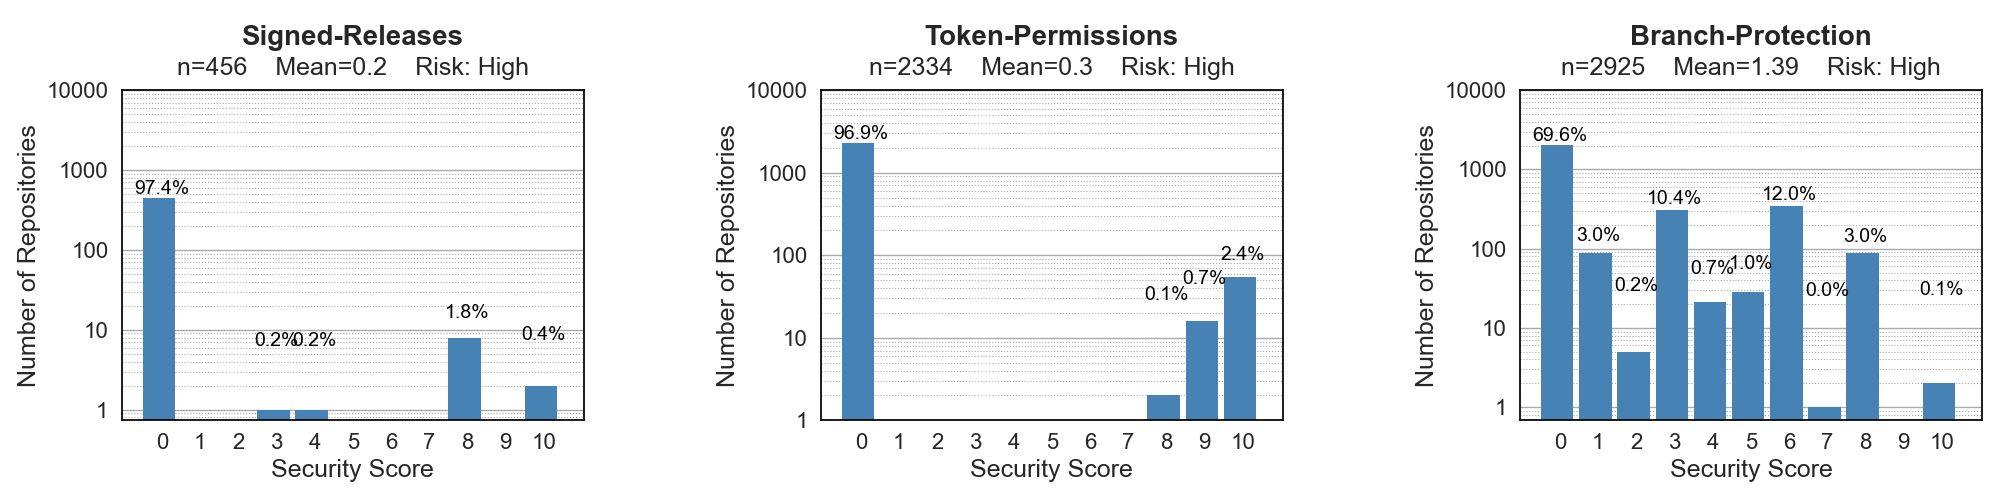
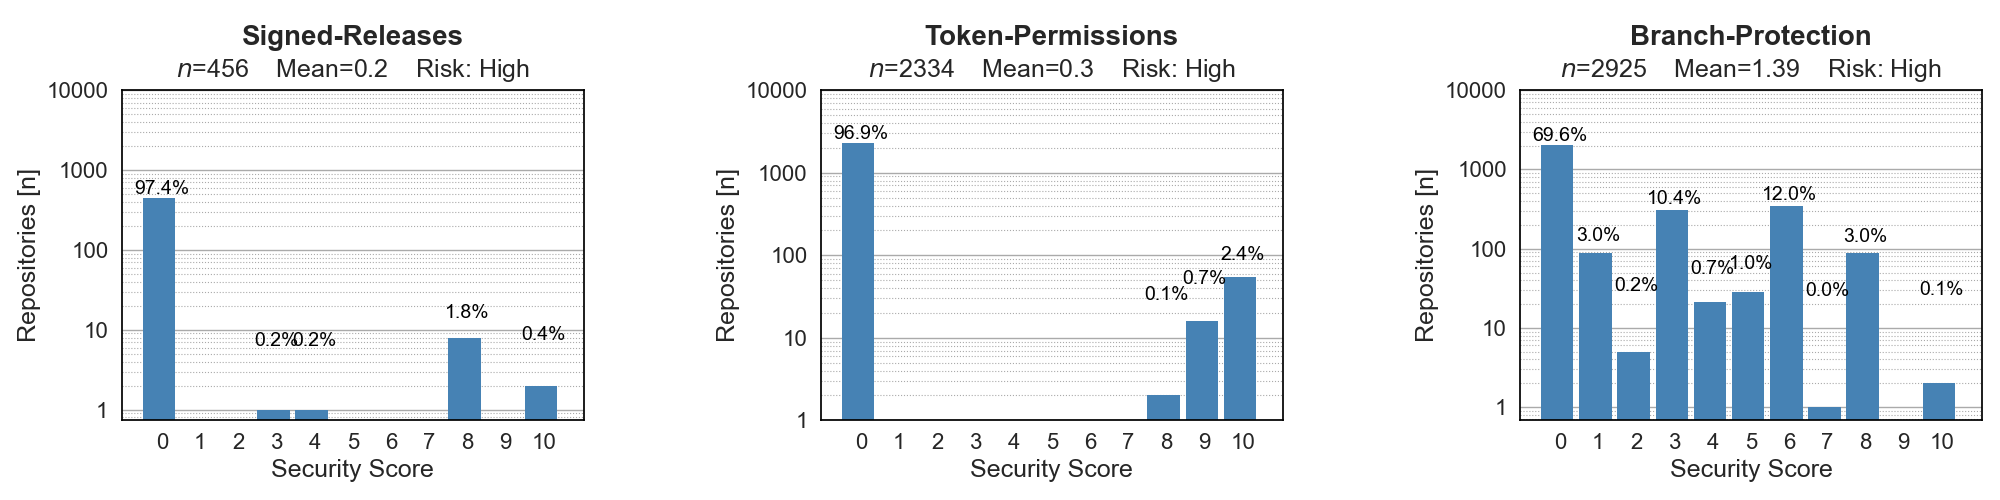
fix: adjust alpha value, improve axis labels

diff --git a/src/plot_ossf_scores.py b/src/plot_ossf_scores.py
@@ -139,7 +139,7 @@ def save_general_scores_plot(general_scores, output_dir):
     # Barplots
     boxplots_colors = ['slategray']
     unique_vals, counts = np.unique(general_scores, return_counts=True)
-    ax.bar(unique_vals, counts, width=0.08, color='steelblue', alpha=0.4, label='Histogramm')
+    ax.bar(unique_vals, counts, width=0.08, color='steelblue', alpha=0.6, label='Histogramm')
 
     # KDE-curve
     xs = np.linspace(min(general_scores), max(general_scores), 200)
@@ -163,11 +163,12 @@ def save_general_scores_plot(general_scores, output_dir):
     plt.xlabel('Security Score', fontsize=14)
     yticks= [0,50, 100, 150, 200]
     plt.yticks(ticks= yticks, labels=[str(i) for i in yticks], fontsize=12)
-    plt.ylabel('Count of Repositories', fontsize=14)
+    plt.ylabel('Repositories [n]', fontsize=14)
     plt.tight_layout()
 
     path = os.path.join(output_dir, 'general_scores_distribution.png')
     plt.tight_layout()
+    plt.show()
     plt.savefig(path)
     plt.close()
 
@@ -193,7 +194,6 @@ def _plot_histogram_for_check(ax, row, check_scores):
     check_name = row['Security Check']
     scores = check_scores[check_name]
     counts, bins, patches = ax.hist(scores, bins=range(12), color='steelblue', edgecolor='none', width=0.85)
-
     bin_centers = 0.5 * (bins[:-1] + bins[1:])
     total = counts.sum()
 
@@ -208,13 +208,13 @@ def _plot_histogram_for_check(ax, row, check_scores):
     ax.set_xticks(bin_centers)
     ax.set_xticklabels([str(i) for i in range(11)], fontsize=16)
     ax.set_xlabel('Security Score', fontsize=18)
-    ax.set_ylabel('Number of Repositories', fontsize=18)
+    ax.set_ylabel('Repositories [n]', fontsize=18)
     ax.set_yscale('log', nonpositive='clip')
     ax.set_yticks([1,10, 100, 1000, 10000])
     ax.set_yticklabels([1, 10, 100, 1000, 10000], fontsize= 16)
     ax.text(0.5, 1.12, f"{check_name}", transform=ax.transAxes,
             fontsize=20, ha='center', va='bottom', fontweight='bold')
-    ax.text(0.5, 1.10, f"n={len(scores)}    Mean={row['Mean']}    Risk: {row['Risk Level']}",
+    ax.text(0.5, 1.10, f"$n$={len(scores)}    Mean={row['Mean']}    Risk: {row['Risk Level']}",
             transform=ax.transAxes, fontsize=18, ha='center', va='top')
 
     for spine in ax.spines.values():
@@ -240,13 +240,13 @@ def _plot_binaer_histogram_for_check(ax, row, check_scores):
         "Count": [count_0, count_1]
     })
 
-    sns.barplot(x="Status", y="Count", data=df, ax=ax, color='steelblue',width=0.2)
+    sns.barplot(x="Status", y="Count", data=df, ax=ax, color='steelblue', edgecolor='none', width=0.2)
     ax.set_xticklabels(BINARY_LABELS[check_name], fontsize=16)
     ax.set_xlabel('Security Status', fontsize=18)
-    ax.set_ylabel('Number of Repositories', fontsize=18)
+    ax.set_ylabel('Repositories [n]', fontsize=18)
     ax.text(0.5, 1.13, f"{check_name}", transform=ax.transAxes,
             fontsize=20, ha='center', va='bottom', fontweight='bold')
-    ax.text(0.5, 1.10, f"n={len(scores)}    Mean={row['Mean']}    Risk: {row['Risk Level']}",
+    ax.text(0.5, 1.10, f"$n$={len(scores)}    Mean={row['Mean']}    Risk: {row['Risk Level']}",
             transform=ax.transAxes, fontsize=18, ha='center', va='top')
 
     total = count_0 + count_1
